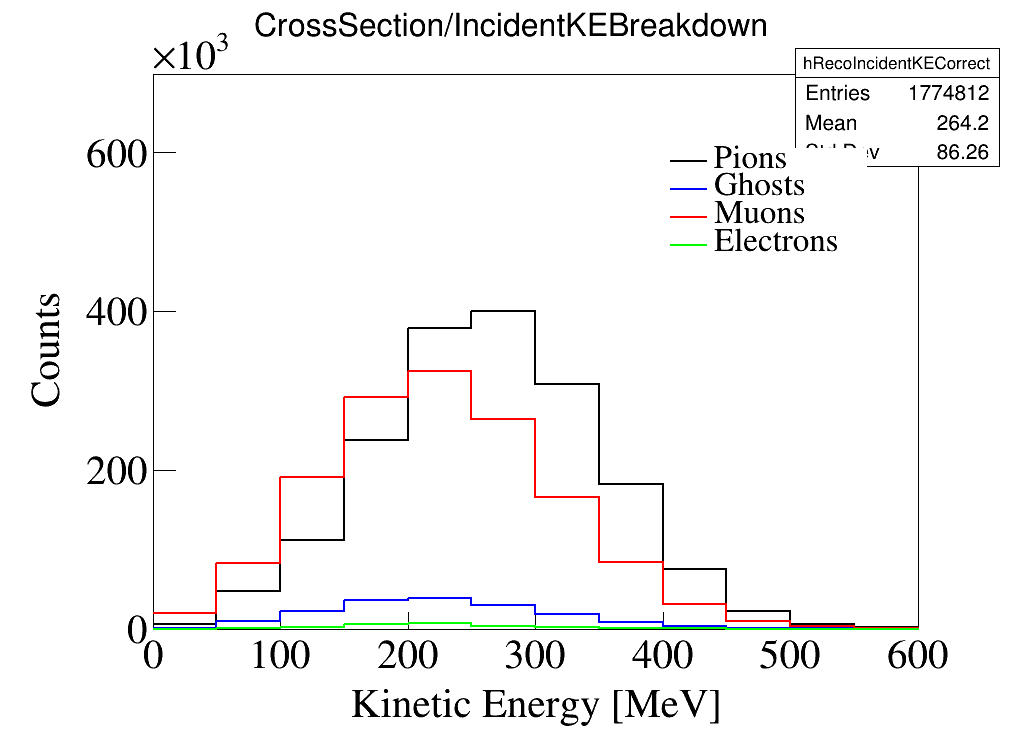
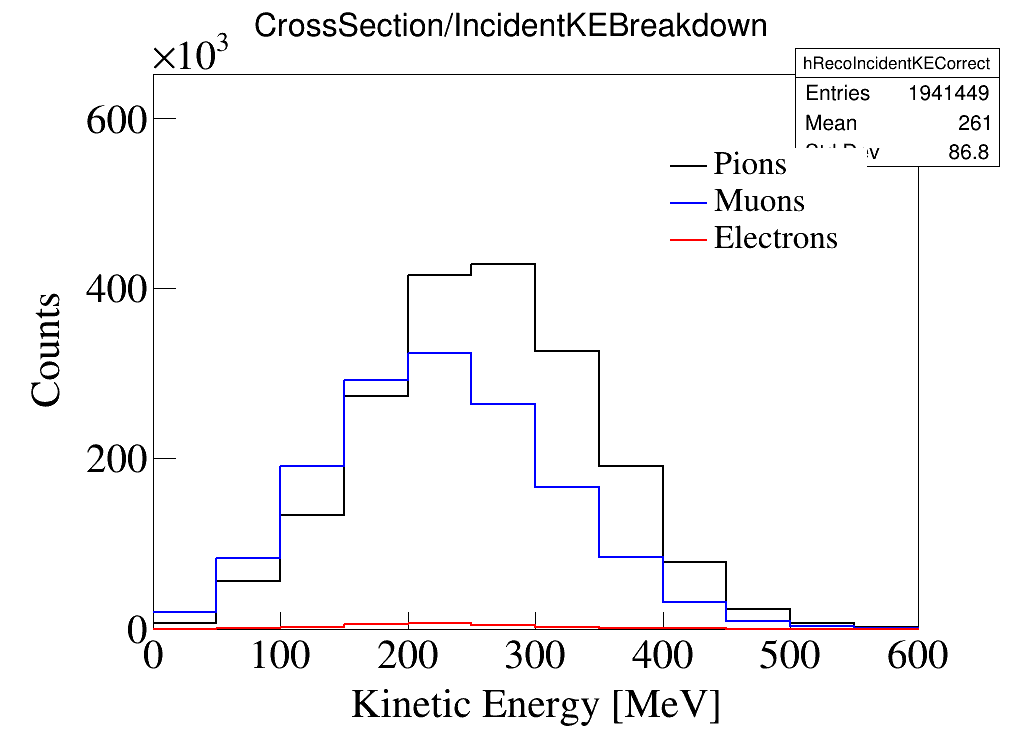
Get rid of ghosts

diff --git a/RecoAllAnalysis.cc b/RecoAllAnalysis.cc
@@ -775,7 +775,6 @@ void RecoAllAnalysis() {
     TH1D *hNpPionAbsKE = new TH1D("hNpPionAbsKE", "Interacting KE [MeV]", NUM_BINS_KE, LOWER_BOUND_KE, UPPER_BOUND_KE);
     
     TH1D *hIncidentKECorrect   = new TH1D("hRecoIncidentKECorrect", "Incident KE [MeV]", NUM_BINS_KE, LOWER_BOUND_KE, UPPER_BOUND_KE);
-    TH1D *hIncidentKEGhosts    = new TH1D("hRecoIncidentKEGhosts", "Incident KE [MeV]", NUM_BINS_KE, LOWER_BOUND_KE, UPPER_BOUND_KE);
     TH1D *hIncidentKEMuons     = new TH1D("hIncidentKEMuons", "Incident KE [MeV]", NUM_BINS_KE, LOWER_BOUND_KE, UPPER_BOUND_KE);
     TH1D *hIncidentKEElectrons = new TH1D("hIncidentKEElectrons", "Incident KE [MeV]", NUM_BINS_KE, LOWER_BOUND_KE, UPPER_BOUND_KE);
 
@@ -1100,16 +1099,12 @@ void RecoAllAnalysis() {
 
                 // See if we are adding a "ghost"
                 int targetBin = getCorrespondingBin(initialKE - energyDeposited, NUM_BINS_KE, LOWER_BOUND_KE, UPPER_BOUND_KE);
-                if (targetBin >= idealInteractingKEBin) {
-                    if (truthPrimaryPDG == -211) {
-                        hIncidentKECorrect->Fill(initialKE - energyDeposited);
-                    } else if (truthPrimaryPDG == 13) {
-                        hIncidentKEMuons->Fill(initialKE - energyDeposited);
-                    } else if (truthPrimaryPDG == 11) {
-                        hIncidentKEElectrons->Fill(initialKE - energyDeposited);
-                    }
-                } else {
-                    hIncidentKEGhosts->Fill(initialKE - energyDeposited);
+                if (truthPrimaryPDG == -211) {
+                    hIncidentKECorrect->Fill(initialKE - energyDeposited);
+                } else if (truthPrimaryPDG == 13) {
+                    hIncidentKEMuons->Fill(initialKE - energyDeposited);
+                } else if (truthPrimaryPDG == 11) {
+                    hIncidentKEElectrons->Fill(initialKE - energyDeposited);
                 }
             }
         }
@@ -2350,7 +2345,7 @@ void RecoAllAnalysis() {
 
         // Cross section
         {hIncidentKE},
-        {hIncidentKECorrect, hIncidentKEGhosts, hIncidentKEMuons, hIncidentKEElectrons},
+        {hIncidentKECorrect, hIncidentKEMuons, hIncidentKEElectrons},
         {hPionAbsKE, h0pPionAbsKE, hNpPionAbsKE},
         // {hPionAbsKECorrect, hPionAbsKEScattering, hPionAbsKEChEx, hPionAbsKEMuons, hPionAbsKEElectrons, hPionAbsKEThrough, hPionAbsKEGhost, hPionAbsKEOther}
         {hPionAbsKECorrect, hPionAbsKEScattering, hPionAbsKEChEx, hPionAbsKEMuons, hPionAbsKEElectrons, hPionAbsKEOther}
@@ -2406,7 +2401,7 @@ void RecoAllAnalysis() {
 
         // Cross section
         {"Incident"},
-        {"Pions", "Ghosts", "Muons", "Electrons"},
+        {"Pions", "Muons", "Electrons"},
         {"All abs", "0p abs", "Np abs"},
         // {"Abs", "Scatter", "Ch. Exch.", "Muon", "Electron", "TG", "Ghost", "Other"}
         {"Abs", "Scatter", "Ch. Exch.", "Muon", "Electron", "Other"}
